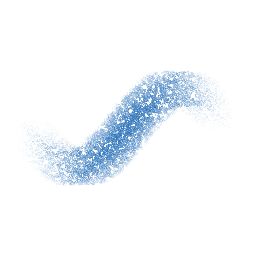
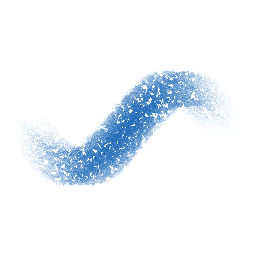
feat(Pincéis J4 pastel_carvao): o Square Hard tapa o vermelho como a foto da bateria (decisão 16); os EM_ESTUDO escrevem-se fora da fábrica
- Square Hard: carga 110, papel 0,8 — o R nos cruzamentos 75,6 (Rebelle 74; antes 114); régua 188 → 277/295 (só A).
  Portão novo `o_square_hard_tapa_o_vermelho_como_a_foto` (a carga de antes reprova: 97). O MIDIAS perde Textura e Cv
  (a foto antiga lia 13 · 0,044 contra 20,9 · 0,077; na foto nova são os do Rebelle). Sem revisão cega (corte de custo).
- `escreve_os_em_estudo` (ignorado): os EM_ESTUDO com a tabela e a miniatura em $PH2D_EXAME_DIR/estudo/
  (`presets_de_fabrica::parametros` e `tabela_de_largura` passam a pub(super)).
Verdes: a_sua_receita, counted, a_miniatura, parece_a_sua_midia, cada_pastel…, a_pressao_de_cada_preset, os_reprovados.

Changed region(s): [[0.125, 0.2812, 0.8438, 0.7188]]

diff --git a/crates/ph2d-tool-painter/tests/it/familias/pastel_carvao.rs b/crates/ph2d-tool-painter/tests/it/familias/pastel_carvao.rs
@@ -77,10 +77,13 @@ pub const WET: &[Receita] = &[
     // cega r1 via o nosso «fino e uniforme, como ruído»; a Textura da mídia 14 contra 21 com o 160). A pressão leve DESFAZ-SE em
     // grão (`pressureGrain` 0,25: a revisão cega r1 viu o Rebelle em pontos soltos onde o nosso esmaecia liso; a 0,5 a
     // largura da rampa leve caía a 0 e a lei da pressão `leis_sistemicas` ia a 0,24 — a 0,25, 0,10).
+    // J4 2.ª ronda (decisão 16: vale a foto da bateria): o Rebelle cobre o vermelho (o vermelho por baixo do azul 0,16;
+    // o nosso a 75 · papel 1,0 lia 0,30) e é mais denso (cobertura 0,71 contra 0,53) — carga 110 e o papel 0,8. Variante
+    // sq1 v4: régua 188 → 277/295 (só A); o Cruzamento do portão das mídias re-medido (`MIDIAS`).
     Receita {
         nome: "Square Hard",
-        pigment: 75.0,
-        gate: 1.0,
+        pigment: 110.0,
+        gate: 0.8,
         hardness: 0.7,
         size_px: Some(35.0),
         extras: &[
@@ -290,7 +293,11 @@ pub const MIDIAS: &[Midia] = &[
     Midia { preset: "Charcoal", foto: "charcoal", raio: 10.5, metricas: &[(Cobertura, 0.384), (Borda, 0.378), (Orla, 15.0)] },
     Midia { preset: "Soft Pastel", foto: "pastel", raio: 8.5, metricas: &[(Cobertura, 0.752), (Borda, 0.443), (Orla, 6.0)] },
     Midia { preset: "Oil Pastel", foto: "oilpastel2", raio: 15.0, metricas: &[(Cobertura, 0.654), (Textura, 17.354), (Borda, 0.417), (Orla, 11.0)] },
-    Midia { preset: "Square Hard", foto: "squarehard", raio: 15.50, metricas: &[(Cobertura, 0.705), (Textura, 20.884), (Borda, 0.856), (Cv, 0.077), (Cruzamento, 0.579), (Largura, 31.0)] },
+    // Square Hard (J4 2.ª ronda, decisão 16 — vale a foto da bateria, 19/10): a carga que cobre o vermelho como ela (o
+    // cruzamento R 75, Rebelle 74) lê na foto antiga das mídias Textura 13 (20,9) e Cv 0,044 (0,077); na foto nova a
+    // textura e o Cv são os do Rebelle (25 · 23,3 e 0,080 · 0,082, régua 277/295) — saem daqui, e a cobertura do
+    // vermelho prende-se pela foto nova (`o_square_hard_tapa_o_vermelho_como_a_foto`).
+    Midia { preset: "Square Hard", foto: "squarehard", raio: 15.50, metricas: &[(Cobertura, 0.705), (Borda, 0.856), (Cruzamento, 0.579), (Largura, 31.0)] },
     Midia { preset: "Wax Scrape", foto: "waxscrape", raio: 19.5, metricas: &[(Cobertura, 0.763), (Textura, 16.691), (Borda, 0.586), (Largura, 36.0)] },
 ];
 
@@ -353,6 +360,32 @@ const SOFT_PASTEL: Receita = Receita {
     pincel: &[],
     nasce_de: None,
 };
+
+/// Escreve os [`EM_ESTUDO`] (com a tabela da largura e a miniatura, como o gerador) em `$PH2D_EXAME_DIR/estudo/` — o exame
+/// parte deles sem entrarem na fábrica. `PH2D_REGERA_SO="Nome,…"`: só esses.
+#[test]
+#[ignore = "bancada: escreve os EM_ESTUDO fora da fábrica (PH2D_EXAME_DIR)"]
+fn escreve_os_em_estudo() {
+    use crate::presets_de_fabrica::{parametros, tabela_de_largura};
+    let dir = std::path::PathBuf::from(std::env::var("PH2D_EXAME_DIR").expect("PH2D_EXAME_DIR")).join("estudo");
+    let so = std::env::var("PH2D_REGERA_SO").ok();
+    for r in EM_ESTUDO {
+        if so.as_deref().is_some_and(|s| !s.split(',').any(|n| n == r.nome)) {
+            continue;
+        }
+        let mut preset = ph2d_brush_presets::Preset {
+            parametros: parametros(r),
+            origem: ph2d_brush_presets::Origem::Fabrica,
+            miniatura: ph2d_brush_presets::Miniatura { largura: 1, altura: 1, rgba: vec![255; 4] },
+            texturas: Default::default(),
+        };
+        preset.parametros.width_table = tabela_de_largura(&preset);
+        preset.miniatura = ph2d_tool_painter::miniatura_do_preset(&preset);
+        let rel = ph2d_brush_presets::caminho_relativo(ph2d_tool_painter::MOTOR_DOS_PRESETS, r.meio, r.grupo, r.nome);
+        ph2d_brush_presets::gravar(&dir, &rel, &preset).unwrap();
+        println!("[estudo] {}", dir.join(&rel).display());
+    }
+}
 
 // ---- Os portões da família (J4, `docs/Painter/Pinceis/exames/pastel_carvao.md`) ----
 
@@ -747,6 +780,37 @@ mod portoes {
             f.push(format!("o lado: {:.2} com, {:.2} sem (Rebelle 2,15)", lado(com), lado(sem_lado)));
         }
         assert!(f.is_empty(), "{f:?}");
+    }
+
+    /// O VERMELHO por baixo do azul nos cruzamentos da cena `sobre` (x 250 e 500 × as faixas y 150 e 470, ±8 × ±15 px): o
+    /// canal R médio — o azul puro tem R 23, o vermelho 191.
+    fn r_no_cruzamento(px: &[u8]) -> f64 {
+        let mut v = Vec::new();
+        for x in [250usize, 500] {
+            for y in [150usize, 470] {
+                for yy in y - 15..=y + 15 {
+                    for xx in x - 8..=x + 8 {
+                        v.push(f64::from(px[(yy * 1000 + xx) * 4]));
+                    }
+                }
+            }
+        }
+        v.iter().sum::<f64>() / v.len() as f64
+    }
+
+    /// ⭐ **O Square Hard tapa o vermelho como a foto nova** (decisão 16): o R médio nos cruzamentos do azul sobre o vermelho
+    /// — Rebelle «Square Hard» (bateria, `sobre_A`) 74, pelo MESMO recorte; o de antes (carga 75, papel 1,0) 114. Mutação: a
+    /// carga de antes.
+    #[test]
+    fn o_square_hard_tapa_o_vermelho_como_a_foto() {
+        let ps = [pinceis("Square Hard").remove(0), mutado("Square Hard", "pigmentPerDab", serde_json::json!(75.0))];
+        let r: Vec<f64> = std::thread::scope(|s| {
+            let hs: Vec<_> = ps.iter().map(|p| s.spawn(move || r_no_cruzamento(&cena(p, "sobre")))).collect();
+            hs.into_iter().map(|h| h.join().unwrap()).collect()
+        });
+        println!("[pastel_carvao] Square Hard: R no cruzamento {:.1} (Rebelle 74) · com a carga de antes {:.1}", r[0], r[1]);
+        assert!(r[0] <= 86.0, "o Square Hard deixa o vermelho passar: R {:.1} (Rebelle 74)", r[0]);
+        assert!(r[1] > 86.0, "o portão não separa a carga de antes ({:.1})", r[1]);
     }
 
     /// Os reprovados não estão na fábrica: nenhum ficheiro com o nome de uma receita [`super::EM_ESTUDO`].

diff --git a/crates/ph2d-tool-painter/tests/it/presets_de_fabrica.rs b/crates/ph2d-tool-painter/tests/it/presets_de_fabrica.rs
@@ -49,7 +49,7 @@ fn raiz() -> PathBuf {
 /// ⚠ **Parte do ficheiro de fábrica que JÁ existe** (prompt 35): desde a W2 do plano 27 as cerdas vivem no
 /// Shape (`WetKnobs::cerdas_no_shape`) e gravar não as põe no motor — capturar de fresco perdia a ponta de
 /// cada preset. Só um preset sem ficheiro nasce da captura.
-fn parametros(r: &Receita) -> Parametros {
+pub(super) fn parametros(r: &Receita) -> Parametros {
     let rel = caminho_relativo(MOTOR_DOS_PRESETS, r.meio, r.grupo, r.nome);
     let mut p = match std::fs::read(raiz().join(&rel)) {
         Ok(bytes) => ler(&bytes).expect("o ficheiro de fábrica lê-se").parametros,
@@ -445,7 +445,7 @@ fn raio_do_motor_da_tabela(tabela: &[[f64; 2]], raio: f32) -> f32 {
 /// margem da janela pelo CAMINHO (`Trail::on_segment_no_caminho`) 21,9 GiB do tecto de 24 (prompt 53); com UMA lane por
 /// ponta (L13) o raio 1 100 pesa 1,7 GiB (era 4,3) — mas a fatia é da LINHA e o `/tmp` (tmpfs) dos agentes conta nela
 /// (14,6 G de `shmem` a 20/10): o Dabber regerou-se a `PH2D_LEI_FIOS=4`, pico 5,3 GiB, 4,8 min (03_MOTORES §4 L13).
-fn tabela_de_largura(p: &Preset) -> Vec<[f64; 2]> {
+pub(super) fn tabela_de_largura(p: &Preset) -> Vec<[f64; 2]> {
     use std::sync::atomic::{AtomicUsize, Ordering};
     let raios = raios_da_lei();
     let fios = std::env::var("PH2D_LEI_FIOS")
